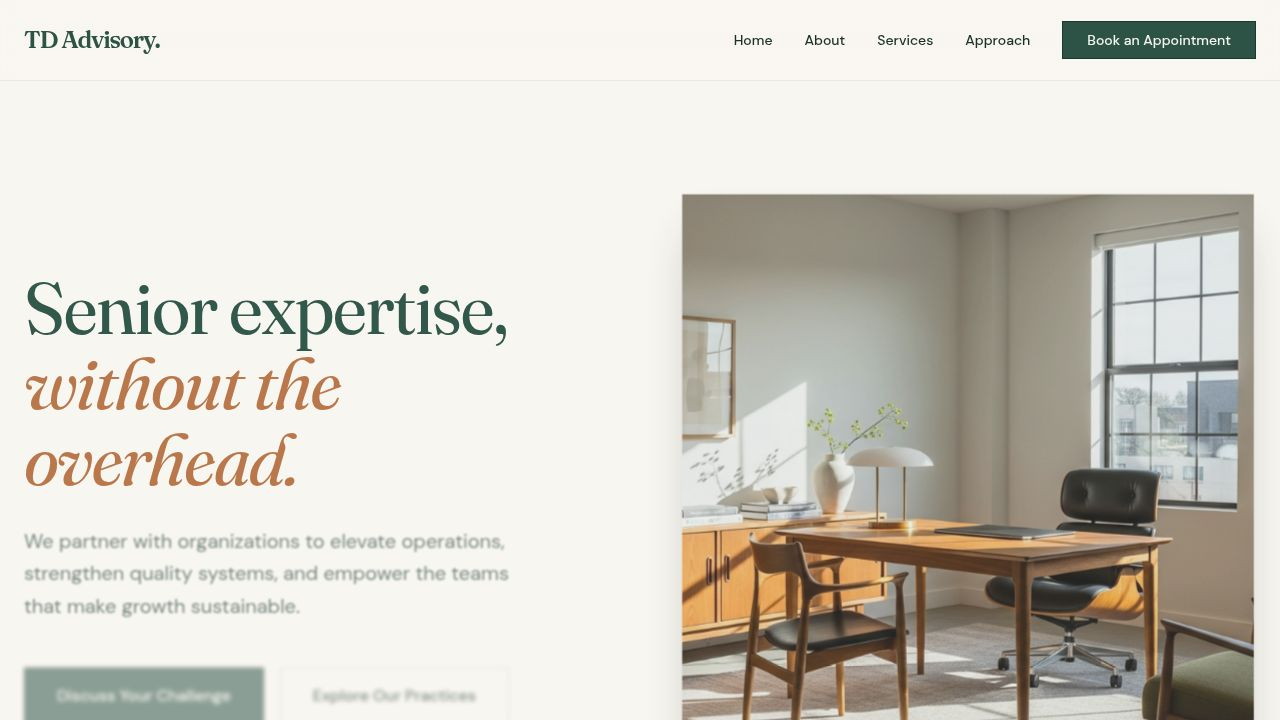
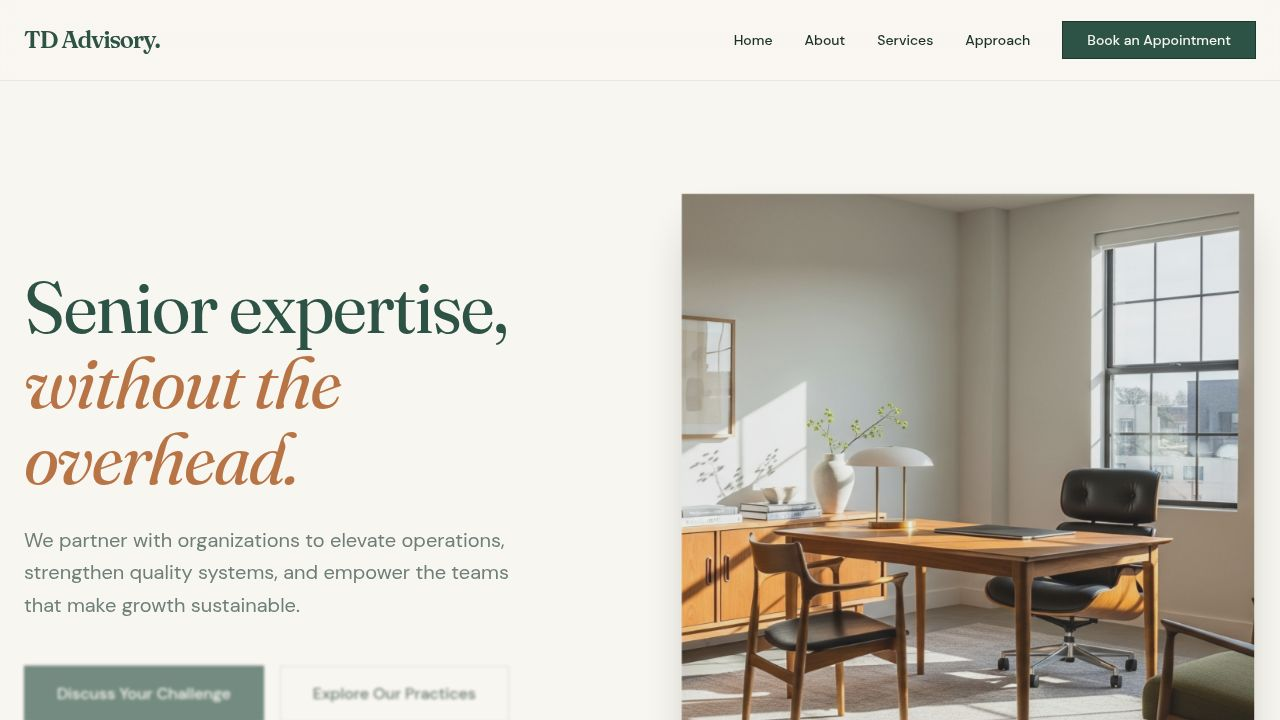
Update website and email sending to use direct API key
Replace Replit integration with direct Resend API key for email sending and update the 'from' address.

Replit-Commit-Author: Agent
Replit-Commit-Session-Id: 97534432-b15e-47c0-b2e6-454edf8f8c41
Replit-Commit-Checkpoint-Type: full_checkpoint
Replit-Commit-Event-Id: d079fcfe-3671-4d60-844c-374d71197868
Replit-Commit-Screenshot-Url: https://storage.googleapis.com/screenshot-production-us-central1/36b2ec11-bf8a-44eb-8837-47c4f0a22bd2/97534432-b15e-47c0-b2e6-454edf8f8c41/bBetSbq
Replit-Helium-Checkpoint-Created: true

diff --git a/artifacts/api-server/src/routes/contact.ts b/artifacts/api-server/src/routes/contact.ts
@@ -3,38 +3,6 @@ import { Resend } from "resend";
 
 const router = Router();
 
-async function getResendClient(): Promise<{ client: Resend; fromEmail: string }> {
-  const hostname = process.env.REPLIT_CONNECTORS_HOSTNAME;
-  const xReplitToken = process.env.REPL_IDENTITY
-    ? "repl " + process.env.REPL_IDENTITY
-    : process.env.WEB_REPL_RENEWAL
-    ? "depl " + process.env.WEB_REPL_RENEWAL
-    : null;
-
-  if (!xReplitToken) throw new Error("X-Replit-Token not found");
-
-  const connectionSettings = await fetch(
-    "https://" + hostname + "/api/v2/connection?include_secrets=true&connector_names=resend",
-    {
-      headers: {
-        Accept: "application/json",
-        "X-Replit-Token": xReplitToken,
-      },
-    }
-  )
-    .then((res) => res.json())
-    .then((data) => data.items?.[0]);
-
-  if (!connectionSettings?.settings?.api_key) {
-    throw new Error("Resend not connected");
-  }
-
-  return {
-    client: new Resend(connectionSettings.settings.api_key),
-    fromEmail: connectionSettings.settings.from_email,
-  };
-}
-
 router.post("/contact", async (req, res) => {
   const { name, company, email, interest, message } = req.body;
 
@@ -43,10 +11,10 @@ router.post("/contact", async (req, res) => {
   }
 
   try {
-    const { client, fromEmail } = await getResendClient();
+    const client = new Resend(process.env.RESEND_API_KEY);
 
-    await client.emails.send({
-      from: fromEmail || "TD Advisory Website <[email redacted]>",
+    const result = await client.emails.send({
+      from: "TD Advisory Website <[email redacted]>",
       to: "[email redacted]",
       replyTo: email,
       subject: `New Enquiry: ${interest || "General"} — ${name}`,
@@ -65,6 +33,7 @@ router.post("/contact", async (req, res) => {
       `,
     });
 
+    console.log("Resend result:", JSON.stringify(result));
     return res.status(200).json({ ok: true });
   } catch (err) {
     console.error("Email send error:", err);